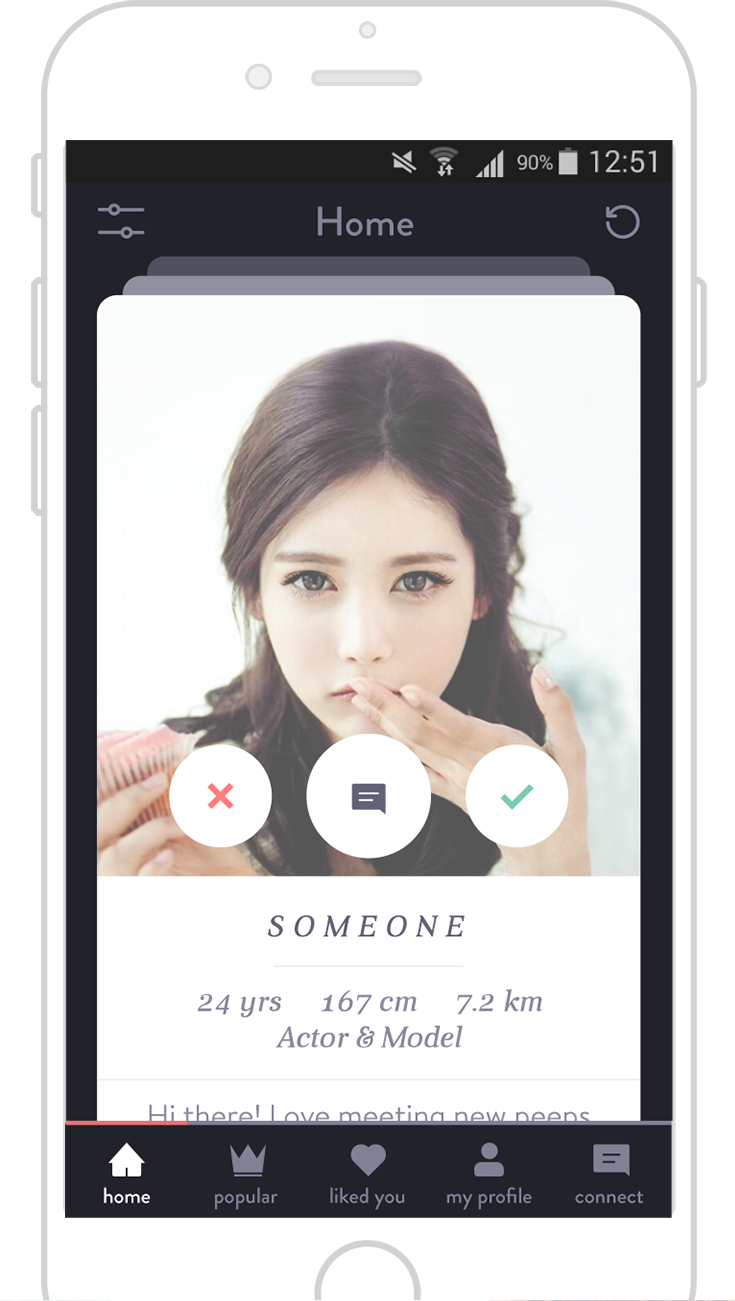
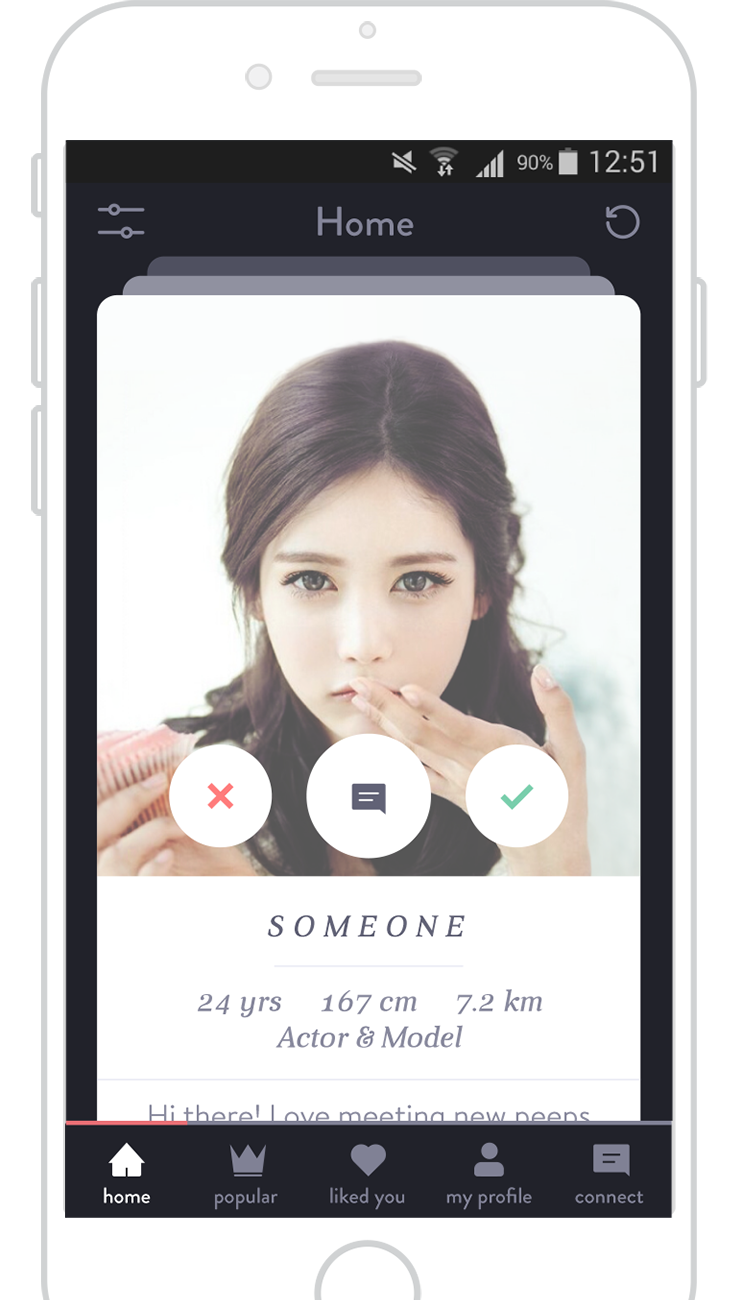
2x pictures

diff --git a/app/view/home.html b/app/view/home.html
@@ -56,7 +56,7 @@
                 </div>
             </div>
             <div class="col-md-5 hidden-sm hidden-xs" style="overflow: hidden;">
-                <img src="img/phone.png" class="img-responsive"
+                <img ng-src="img/phone.png" width="338" height="647" class="img-responsive"
                      alt="Responsive image">
             </div>
         </div>
